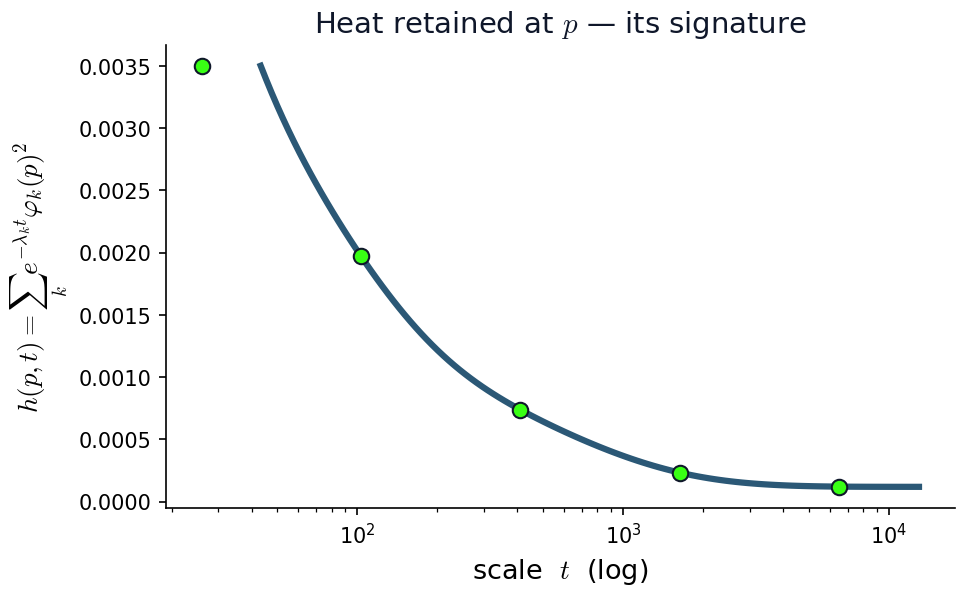
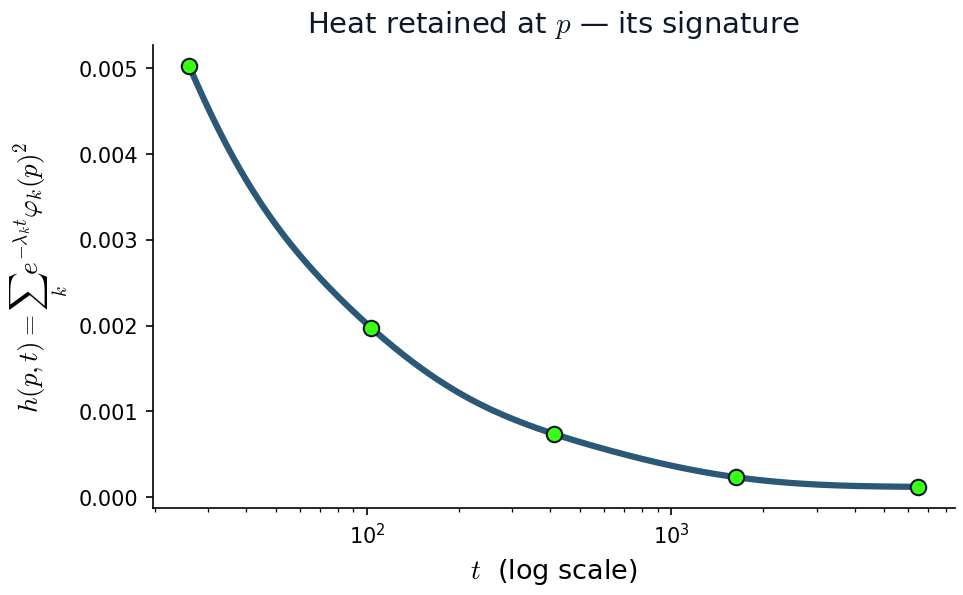
Fix HKS curve: markers exactly on curve; x-axis label "t (log scale)"
The first diffusion-time marker fell left of the curve because tfine didn't
cover the smallest marker t and np.interp clamped it. Now the curve spans the
marker range and marker y-values are evaluated exactly on the HKS function.

diff --git a/gen/gen_24_shape_descriptors.py b/gen/gen_24_shape_descriptors.py
@@ -139,17 +139,17 @@ def build():
         print(f"[ok] desc_diffuse_{j}.png")
 
     # ---- HKS curves ------------------------------------------------------
-    hks = np.einsum("tk,nk->tn", np.exp(-np.outer(ts, lam)), Phi ** 2)  # (T, nV)
-    # dense curves over a finer t for smooth plotting
-    tfine = np.geomspace(ts[0], ts[-1], 120)
+    # dense curve spanning the marker range so the markers lie exactly on it
+    tfine = np.geomspace(diff_ts[0], diff_ts[-1], 200)
     hfine = np.einsum("tk,nk->tn", np.exp(-np.outer(tfine, lam)), Phi ** 2)
+    # marker y-values evaluated exactly on the HKS function (not interpolated)
+    mark_y = np.exp(-np.outer(diff_ts, lam)) @ (Phi[src] ** 2)
 
     fig, ax = plt.subplots(figsize=(6.6, 4.2))
     ax.plot(tfine, hfine[:, src], color=TEAL, lw=3)
-    ax.scatter(diff_ts, np.interp(diff_ts, tfine, hfine[:, src]),
-               color="#39ff14", edgecolor=FG, zorder=5, s=55)
+    ax.scatter(diff_ts, mark_y, color="#39ff14", edgecolor=FG, zorder=5, s=55)
     ax.set_xscale("log")
-    ax.set_xlabel("scale  $t$  (log)", fontsize=13)
+    ax.set_xlabel("$t$  (log scale)", fontsize=13)
     ax.set_ylabel(r"$h(p,t)=\sum_k e^{-\lambda_k t}\varphi_k(p)^2$", fontsize=13)
     ax.set_title("Heat retained at $p$ — its signature", fontsize=14, color=FG)
     ax.spines[["top", "right"]].set_visible(False)
@@ -171,7 +171,7 @@ def build():
     for i, c, lbl in zip(pts, pcols, ["nose", "hoof", "tail"]):
         ax.plot(tfine, hfine[:, i], color=c, lw=3, label=lbl)
     ax.set_xscale("log")
-    ax.set_xlabel("scale  $t$  (log)", fontsize=13)
+    ax.set_xlabel("$t$  (log scale)", fontsize=13)
     ax.set_ylabel("$h(x,t)$", fontsize=13)
     ax.set_title("Each point → a distinct signature", fontsize=14, color=FG)
     ax.legend(frameon=False, fontsize=12)
